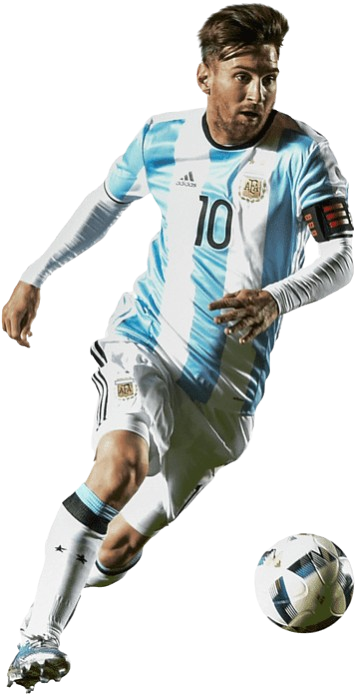
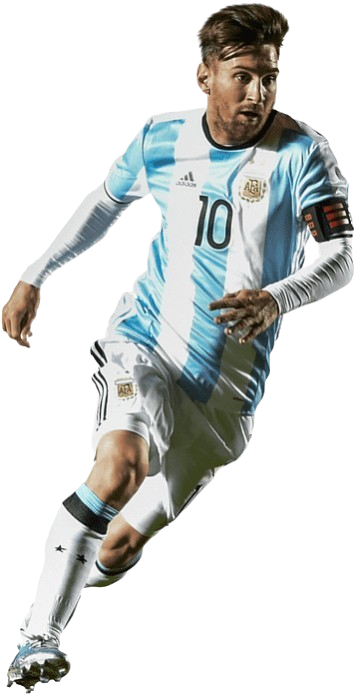
Был добавлен мяч. И обновились платформы

Changed region(s): [[0.7047, 0.7565, 1.0, 0.938]]

diff --git a/shooter_game.py b/shooter_game.py
@@ -28,7 +28,7 @@ class Playre(GameSprits):
         if keys[K_RIGHT] and self.rect.x < win_width - 80:
             self.rect.x += self.speed
     def fire(self):
-        bullet = Bullet('bullet.png', self. rect.centerx, self.rect.top, 25,50,10 )
+        bullet = Bullet('bullet3.png', self. rect.centerx, self.rect.top, 30,50,10 )
         bullets.add(bullet)
         bullet_Sound.play()
 
@@ -58,14 +58,14 @@ class Bullet(GameSprits):
 
 window = display.set_mode((win_width, win_height))
 display.set_caption('Shuter Game')
-background = transform.scale(image.load('galaxy.jpg'), (win_width, win_height))
+background = transform.scale(image.load('galaxy2.jpg'), (win_width, win_height))
         
-playre = Playre('roket.png', 5, win_height - 110, 100 , 100, 10)
+playre = Playre('roket3.png', 5, 370, 140 , 120, 10)
 
 
 monsters = sprite.Group()
 for i in range(1, 6):
-    monster = Enemy('ufo.png', randint(80, win_width - 80), -40, 50, 50, randint(1, 3))
+    monster = Enemy('ufo2.png', randint(80, win_width - 80), -40, 85, 85, randint(1, 3))
     monsters.add(monster)
 
 bullets = sprite.Group()
@@ -113,7 +113,7 @@ while run:
     )
     for i in sprites_list:
         score += 1
-        monster = Enemy('ufo.png', randint(80, win_width - 80), -40, 50, 50, randint(1, 3))
+        monster = Enemy('ufo2.png', randint(80, win_width - 80), -40, 50, 50, randint(1, 3))
         monsters.add(monster)
     if score == 10:
         window.blit(Win, (200, 200))
@@ -130,8 +130,8 @@ while run:
 
 
 
-    SCORE = font.render('Сщётчик очков ' + str(score), 1, (215,215,21))
-    LOSE = font.render('Сщётчик врагов ' + str(lose), 1, (215,215,21))
+    SCORE = font.render('Сщётчик очков ' + str(score), 1, (0,0,215))
+    LOSE = font.render('Сщётчик врагов ' + str(lose), 1, (0,0,215))
     window.blit(SCORE, (0, 0))
     window.blit(LOSE, (0, 21))
     

diff --git a/ping_pong.py b/ping_pong.py
@@ -46,8 +46,8 @@ background = transform.scale(image.load('galaxy.jpg'), (win_width, win_height))
 
 
 playre1 = Playre('roket.png', 5, 250, 100 , 100, 4)
-playre2 = Playre('roket2.png', 595, 230, 130 , 130, 4)
-
+playre2 = Playre('roket2.png', 590, 230, 130 , 130, 4)
+playre3 = Playre('ball.png', 320, 300, 50, 50, 2)
 
 
 
@@ -64,6 +64,8 @@ while run:
     playre1.update_l()
     playre2.reset()
     playre2.update_r()
+    playre3.reset()
+    playre3.update()
     # monsters.draw(window)
     # monsters.update()
     # bullets.draw(window)
